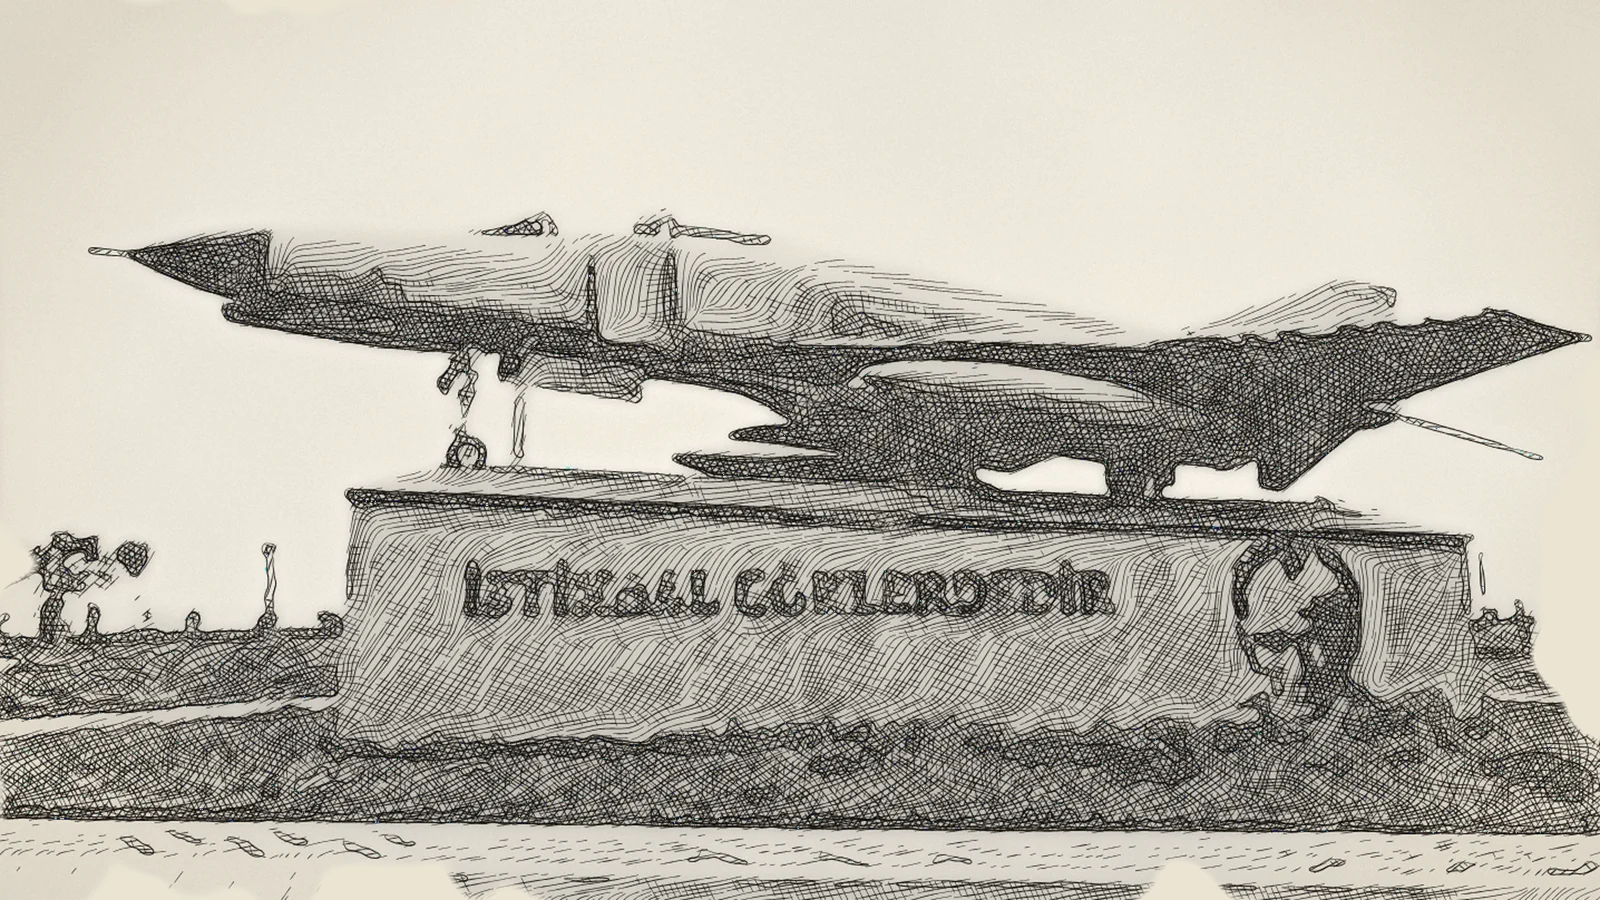
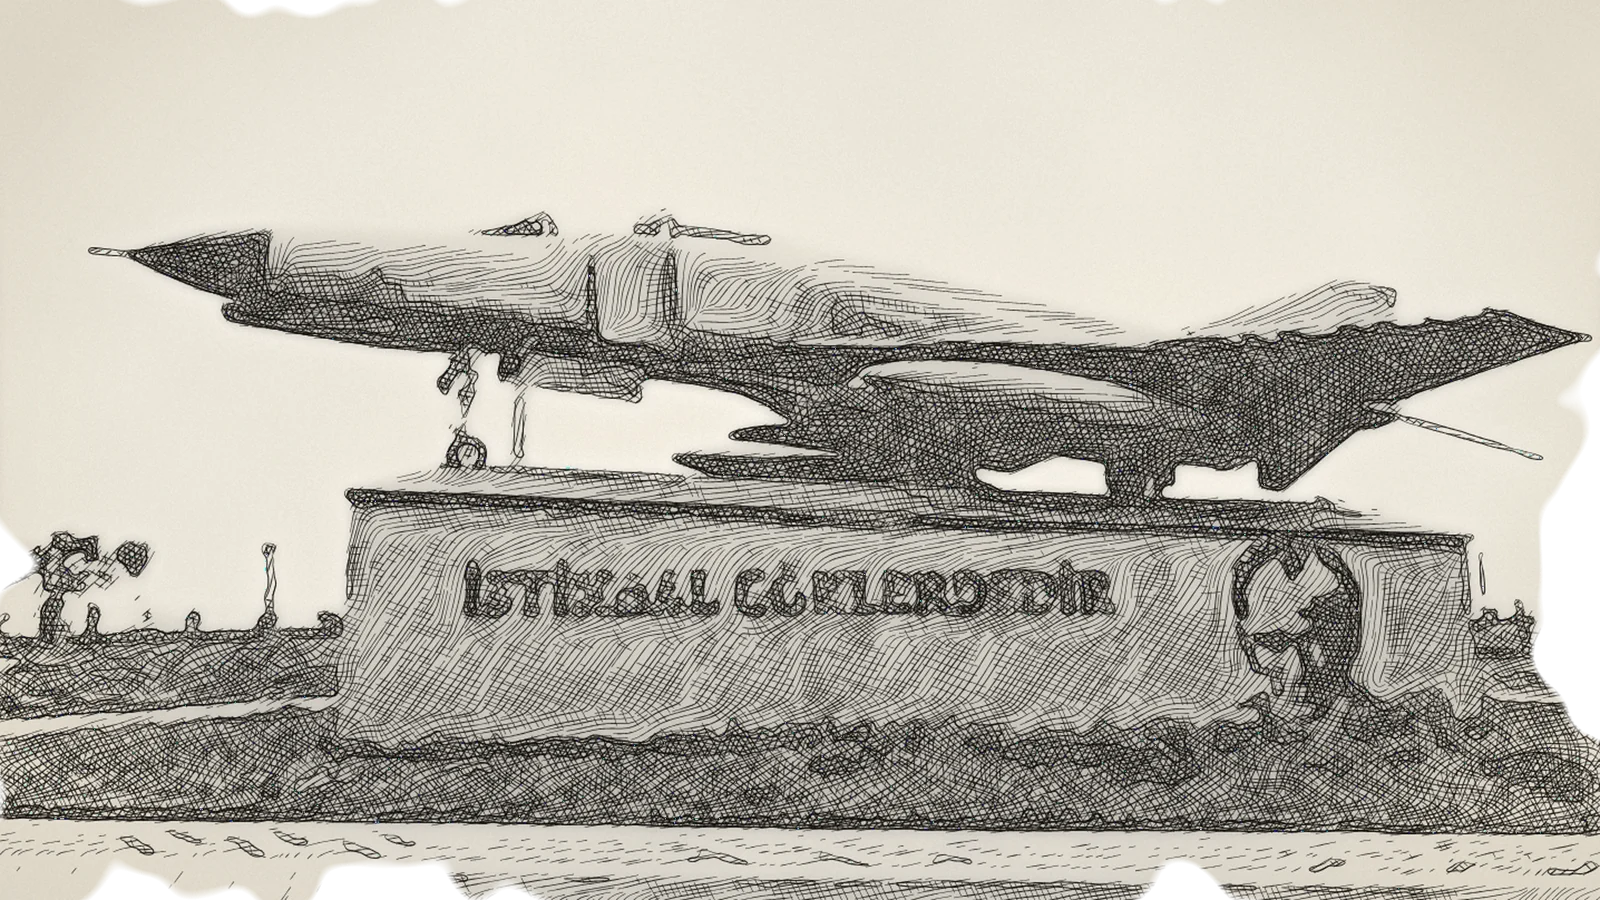
Make the paper around the covers' ragged edge transparent
Outside the ragged edge the cover is now see-through, so the page's own
background shows instead of cream paper, and the cover has no box, border
or background of its own.

diff --git a/src/app/blogs/blog.css b/src/app/blogs/blog.css
@@ -137,12 +137,10 @@ html[data-blog-lang="tr"] [data-tag-lang="en"]:not([data-blog-force-lang] *) {
   vertical-align: middle;
 }
 
-/* Optional ink cover drawn from one of my own photos (frontmatter `cover`). */
+/* Optional ink cover drawn from one of my own photos (frontmatter `cover`).
+   No box: the drawing's ragged edge is transparent, so the page shows through. */
 .post-cover {
   margin: 0 0 1.6rem;
-  border: 1px solid var(--line);
-  border-radius: 2px;
-  overflow: hidden;
 }
 .post-cover img {
   display: block;
